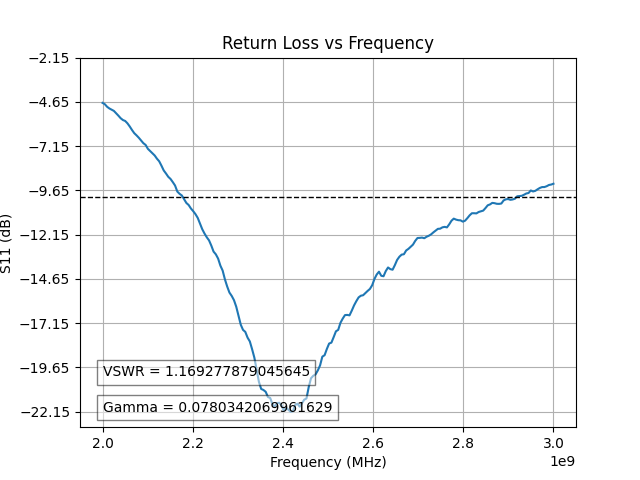
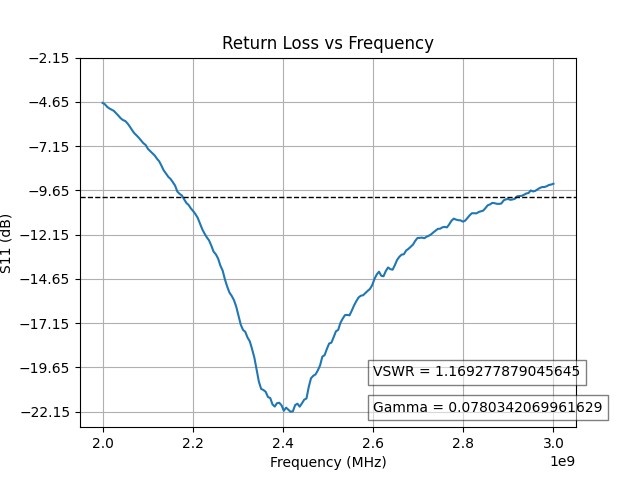
added lab05 need to work on smith chart

Changed region(s): [[0.125, 0.75, 0.5312, 0.9062], [0.5625, 0.75, 0.9688, 0.9062]]

diff --git a/ece3310-lab05-wattsjake/src/ece3310-lab05.py b/ece3310-lab05-wattsjake/src/ece3310-lab05.py
@@ -2,6 +2,8 @@ import matplotlib.pyplot as plt
 import numpy as np
 import pandas as pd
 import sys
+import skrf as rf
+
 
 if len(sys.argv) < 2:
     print("Usage:")
@@ -40,7 +42,7 @@ def rl_computation(s11):
     return db
 
 def vswr_computation(s11):
-    vswr = (1+s11)/(1-s11)
+    vswr = (1+np.abs(s11))/(1-np.abs(s11))
     return vswr
 
 def fig1_data():
@@ -91,8 +93,8 @@ def fig2_plt(db, gamma, vswr, start_f, end_f, points):
     idx = np.argwhere(np.diff(np.sign(db + 10))).flatten()
     
     #add gamma and vswr in a box
-    plt.text(start_f+10, min_value_db, 'Gamma = ' + str(gamma), bbox=dict(facecolor='white', alpha=0.5))
-    plt.text(start_f+10, min_value_db+2, 'VSWR = ' + str(vswr), bbox=dict(facecolor='white', alpha=0.5))
+    plt.text(start_f+6e8, min_value_db, 'Gamma = ' + str(gamma), bbox=dict(facecolor='white', alpha=0.5))
+    plt.text(start_f+6e8, min_value_db+2, 'VSWR = ' + str(vswr), bbox=dict(facecolor='white', alpha=0.5))
     plt.savefig(filename[:-3] + ".png")
     
     plt.show()
@@ -129,6 +131,10 @@ def main():
     fig2_plt(db,gamma_value,vswr, start_f, end_f, points)
     
     vswr_freq(real, img, start_f, end_f, points)
+
+    #graph the data onto a smith chart
+    
+
 
 if __name__ == "__main__":
     main()
